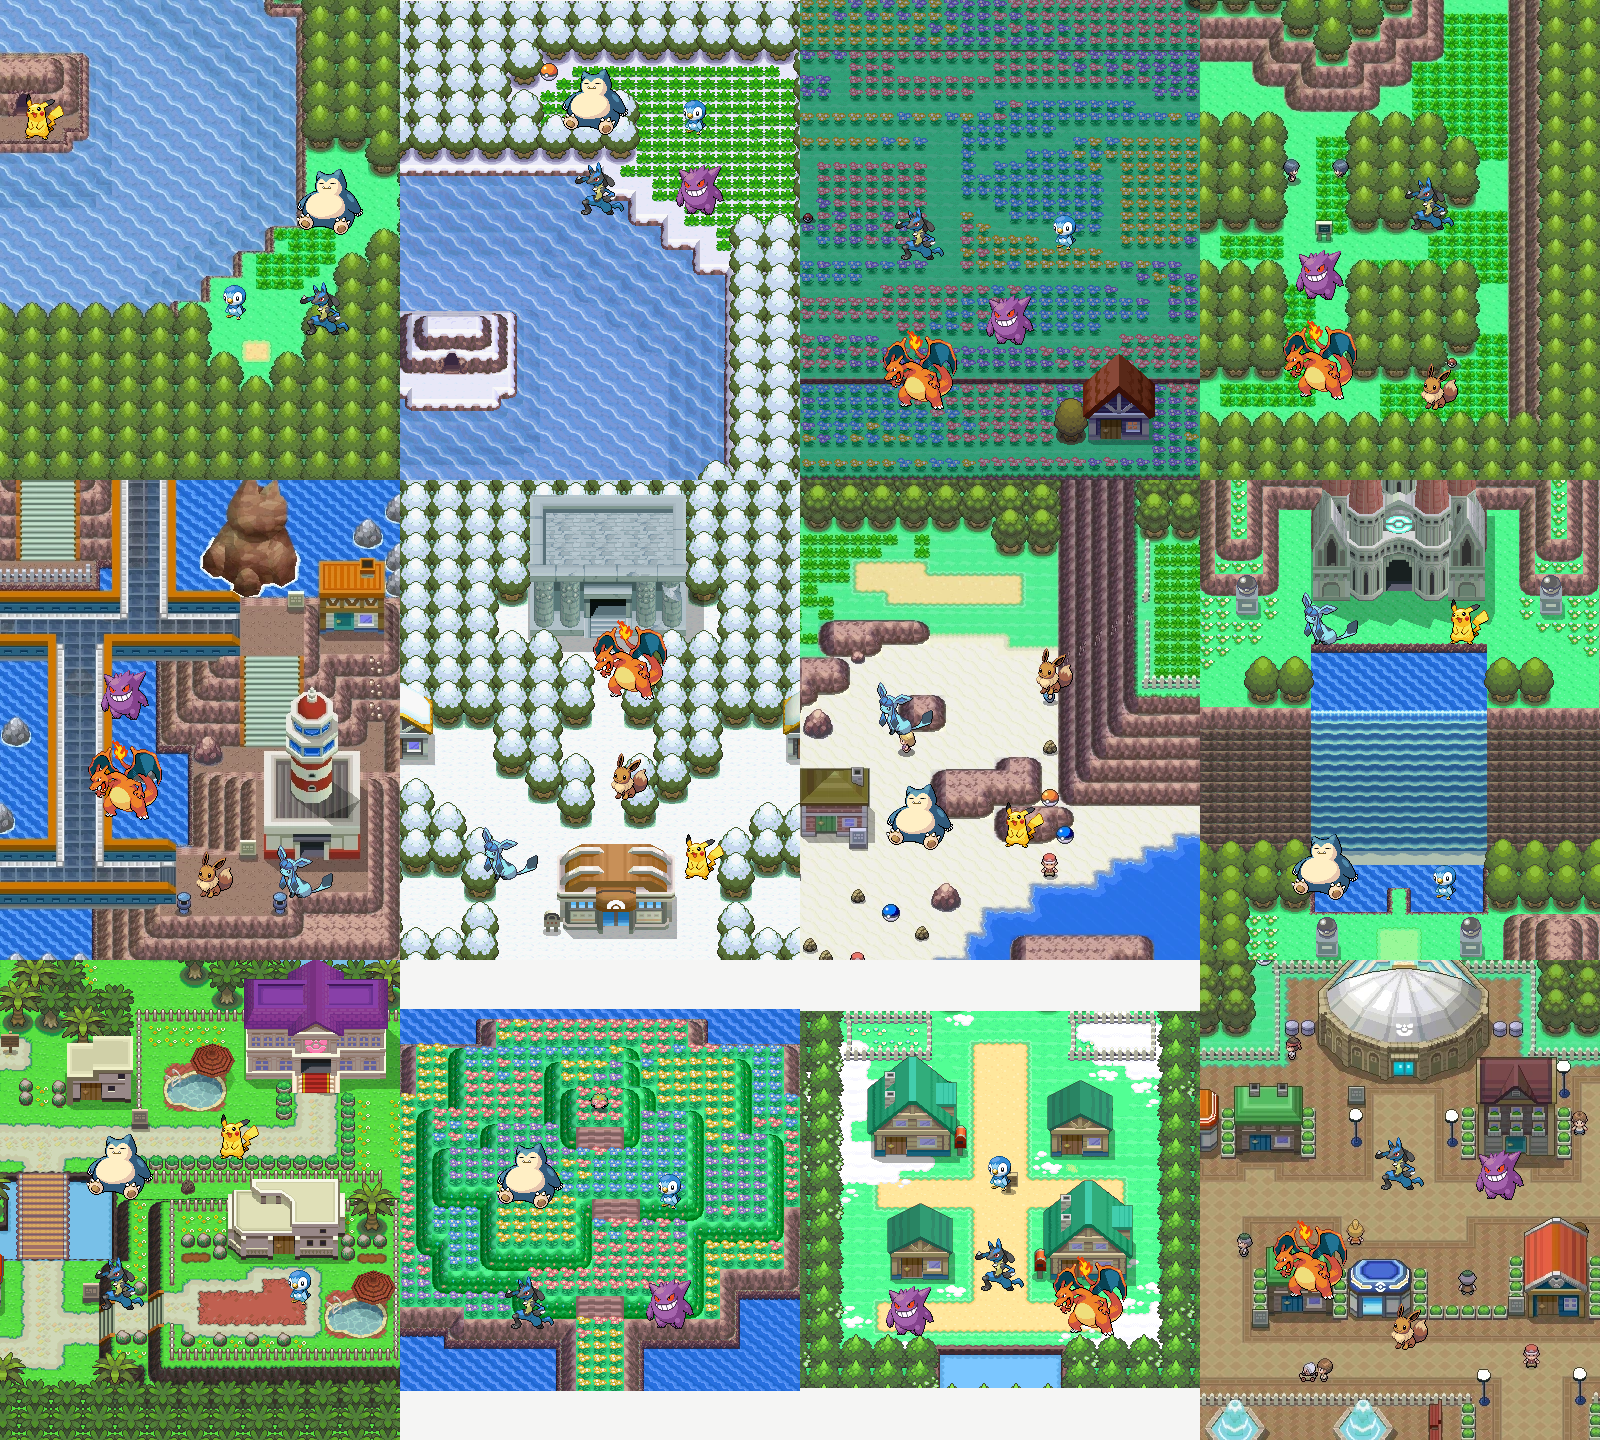
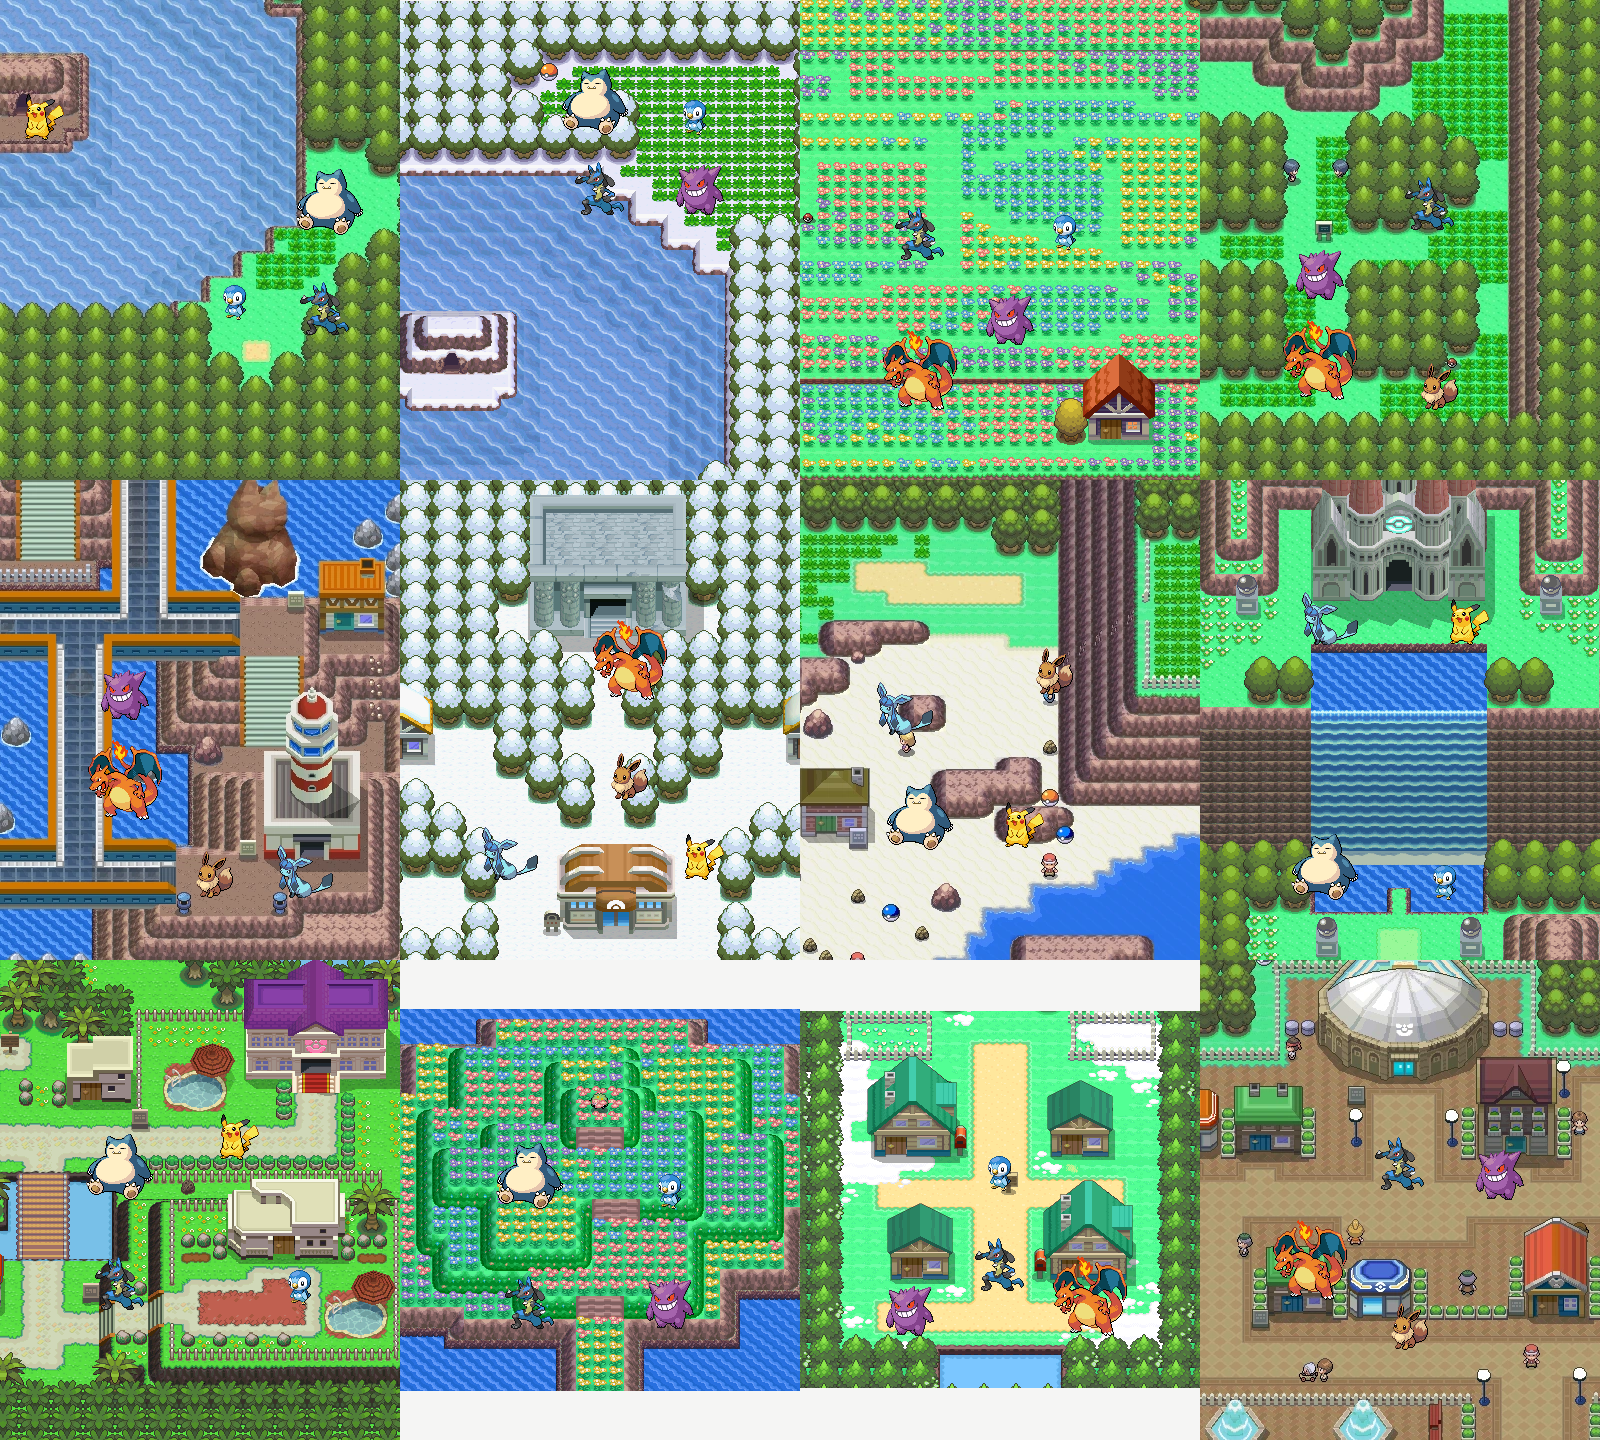
Daylight Floaroma Meadow: undo the dusk tint of the wiki map rip
The Fandom wiki's Platinum rip of Floaroma Meadow was captured in the
evening, so the scene stayed dark after everything else went daylight.
art/daylight.py fits a per-channel gain/offset against a daytime
Diamond/Pearl screenshot of the same tiles and rewrites the map; the raw
rip and the reference live in art/maps-gen4/raw/.

Changed region(s): [[0.5, 0.0, 0.75, 0.3438]]

diff --git a/art/daylight.py b/art/daylight.py
@@ -1,0 +1,51 @@
+"""Undo the evening tint baked into a Platinum map rip.
+
+The Fandom wiki's "Floaroma Meadow Pt.png" was captured at dusk, so the game's
+blue evening tint is in the pixels. This fits a per-channel gain/offset by
+matching palette colours (ICP in RGB space) between a window of the tinted map
+and a daytime Diamond/Pearl screenshot of the same tiles, then applies it to
+the whole map.
+
+    python3 art/daylight.py art/maps-gen4/raw/floaroma-pt-evening.png \
+        art/maps-gen4/raw/floaroma-dp-day-ref.png art/maps-gen4/floaroma.png
+
+Optional 4th/5th args: source and reference windows as x0,y0,x1,y1
+(defaults are the house + honey tree in both images).
+"""
+import sys
+import numpy as np
+from PIL import Image
+
+src, ref, out = sys.argv[1:4]
+sbox = tuple(map(int, sys.argv[4].split(","))) if len(sys.argv) > 4 else (540, 455, 730, 585)
+rbox = tuple(map(int, sys.argv[5].split(","))) if len(sys.argv) > 5 else (0, 0, 190, 95)
+
+S = np.asarray(Image.open(src).convert("RGB")).astype(float)
+R = np.asarray(Image.open(ref).convert("RGB")).astype(float)
+
+
+def palette(a, minc):
+    v, c = np.unique(a.reshape(-1, 3), axis=0, return_counts=True)
+    k = c >= minc
+    return v[k], c[k]
+
+
+Sp, Sc = palette(S[sbox[1]:sbox[3], sbox[0]:sbox[2]], 12)
+Rp, Rc = palette(R[rbox[1]:rbox[3], rbox[0]:rbox[2]], 12)
+gain = np.array([1.5, 1.5, 1.2])
+off = np.zeros(3)
+for it in range(12):
+    T = Sp * gain + off
+    d = np.linalg.norm(T[:, None, :] - Rp[None, :, :], axis=2)
+    j = d.argmin(1)
+    dist = d[np.arange(len(Sp)), j]
+    keep = dist < (40 if it < 3 else 22)
+    w = np.sqrt(Sc[keep])
+    for c in range(3):
+        A = np.c_[Sp[keep, c], np.ones(keep.sum())] * w[:, None]
+        (gain[c], off[c]), *_ = np.linalg.lstsq(A, Rp[j[keep], c] * w, rcond=None)
+print("matched %d/%d palette colours, median distance %.1f" % (keep.sum(), len(Sp), np.median(dist[keep])))
+print("gain", gain.round(3), "offset", off.round(1))
+O = np.clip(S * gain + off, 0, 255).round().astype(np.uint8)
+Image.fromarray(O).save(out)
+print("wrote", out)

diff --git a/RECIPE.md b/RECIPE.md
@@ -40,7 +40,7 @@ Left to right, top to bottom:
 - `layouts/pokemon.json`: the root `row` (titlebar none, traffic_lights [16, 18], theme `{light: "pokemon", dark: "pokemon-night"}`, ui_font `Fusion Pixel 12px Prop zh-Hans`, terminal_padding [12, 10], 2 px `border` dividers) holds a `sidebar` column (px 400, `chrome`) with `city` (px 492, `window_drag`, part `city`) and `roster` (part `roster`), and a `work` column with `tabs` (px 44, part `top`) and the `main` tab block (pane header `{mod: "pokemon"}`, height 28) beside the hidden `panel`. Root `floating`: the `news` part on the right edge, aligned end.
 - `mods/pokemon/`: `main.js` dispatches on `props()`: `pane` → `pane.js`; part `city` → `city.js` (the scene), `roster` → `roster.js`, `top` → `top.js`, `news` → `news.js`. `state.js`: night detection, asset paths, the random Pokémon per agent (`assign`, `monsterOf`), the random place per space (`assignPlaces`, `placeOf`, `placeFor`).
 - `mods/pokemon/assets/day/`: `places/<id>.png` (the scene, 2×) and `places/<id>-thumb.png` (64×64), `monsters/<id>/` (`idle.png`, `roar.png` in the uniform sprite box, `head.png` 48×48 at 1×, `avatar.png` 48×48 at 2×, `face.png` 32×32 at 2×), `fx/` (bang, question, z1, z2, siren, brick, note1–3, clip). `manifest.json` / `manifest.js`: canvas, places (name, colour, size, stands), the sprite box, `files` (which file each pose uses), the 493 monsters (id, name, dex, move, top), effect sizes.
-- `art/`: `places.json` (id, name, colour, map file, crop, stands) and `maps-gen4/` (the DS maps, from the Pokémon Fandom wiki), `roster.json` (all 493), `sprites-gen4/` (Platinum and Diamond/Pearl sprites and `names.json` from PokeAPI, `moves.json` built from PokeAPI's Platinum level-up data: the strongest same-type damaging move, with hand-picked signature moves for the famous ones), `gen4.py` (frames and face crops), `build_assets.py` (builds everything and writes `art/samples/assets-check.png`, every scene with Pokémon on its stands, and `assets-faces.png`). `pokemon.py` (code-drawn chibis) and `pixelize.py` remain usable through `"gen"` / `"sheet"` roster entries.
+- `art/`: `places.json` (id, name, colour, map file, crop, stands) and `maps-gen4/` (the DS maps, from the Pokémon Fandom wiki; `raw/` keeps rips that needed fixing, and `daylight.py` turns the wiki's dusk-tinted Floaroma Meadow rip back into daylight by fitting a per-channel gain/offset against a daytime Diamond/Pearl screenshot of the same tiles), `roster.json` (all 493), `sprites-gen4/` (Platinum and Diamond/Pearl sprites and `names.json` from PokeAPI, `moves.json` built from PokeAPI's Platinum level-up data: the strongest same-type damaging move, with hand-picked signature moves for the famous ones), `gen4.py` (frames and face crops), `build_assets.py` (builds everything and writes `art/samples/assets-check.png`, every scene with Pokémon on its stands, and `assets-faces.png`). `pokemon.py` (code-drawn chibis) and `pixelize.py` remain usable through `"gen"` / `"sheet"` roster entries.
 - `mods/pokemon/fonts/`: Fusion Pixel 12 px proportional (zh_hans), OFL. `keys.json`: `{"layout:pokemon": {"cmd-b": "pokemon.toggle"}}`.
 - Shared state: `pokemon.monsters`, `pokemon.places`, `pokemon.stats`, `pokemon.roster`.
 - `herdr` functions used: `spaces`, `panes`, `agents`, `setAgentOrder`, `run`, `openOverlay`, `props`, `theme`, `window`, `shared`, `setShared`, `layout`, `nextCommand`, `home`. Commands: `space.select/new/rename`, `tab.select/rename/move/prev/next`, `pane.focus/split/zoom/close`, `layout.resize/show/hide/select`, `app.settings`.
@@ -59,6 +59,7 @@ Left to right, top to bottom:
 - The random picks are made by whichever part renders first and written to shared state at once; all parts read the same map on the next frame.
 - There is no repeating timer; notes and lights are native `loop`s. With nothing changing, the mod doesn't redraw.
 - The floating news frame is drawn by Herdr; the mod draws only the content. Herdr's own toast still shows next to it.
+- Some wiki map rips were captured at dusk, with Platinum's blue evening tint baked into the pixels (Floaroma Meadow was one). Check a new map's grass against the others (daytime grass is around `#50f888` / `#28c868`) and run it through `art/daylight.py` with a daytime reference if it looks dark.
 - The font file is 7 MB. Themes must be in `themes/`.
 - Built and checked on macOS with Herdr 0.1.13.
 

diff --git a/README.md b/README.md
@@ -46,7 +46,7 @@ Switch to another layout (`ctrl-shift-l`), then delete `layouts/pokemon.json`, `
 
 The build lives in `art/` and needs Pillow and numpy (`pip3 install pillow numpy`).
 
-- Places: `art/places.json` lists each place's map (`art/maps-gen4/`), the 400×480 window to show and the spots where Pokémon stand. Add or remove entries.
+- Places: `art/places.json` lists each place's map (`art/maps-gen4/`), the 400×480 window to show and the spots where Pokémon stand. Add or remove entries. If a wiki rip was captured at dusk (Floaroma Meadow was), `art/daylight.py` recolours it to daylight from a daytime screenshot of the same tiles.
 - Pokémon: `art/roster.json` lists who can appear; delete lines to shrink the pool to favourites.
 - Then `python3 art/build_assets.py`, look at `art/samples/assets-check.png`, and run `./install.sh` again.
 
